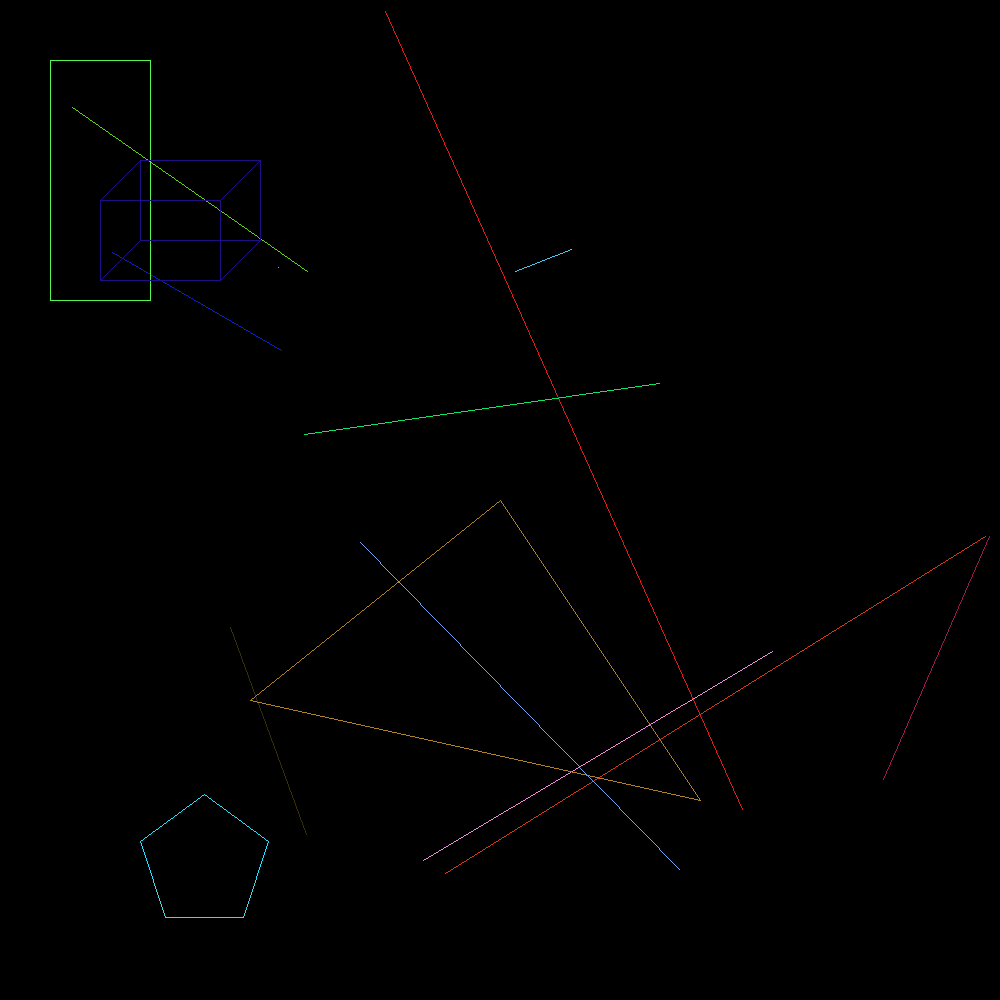
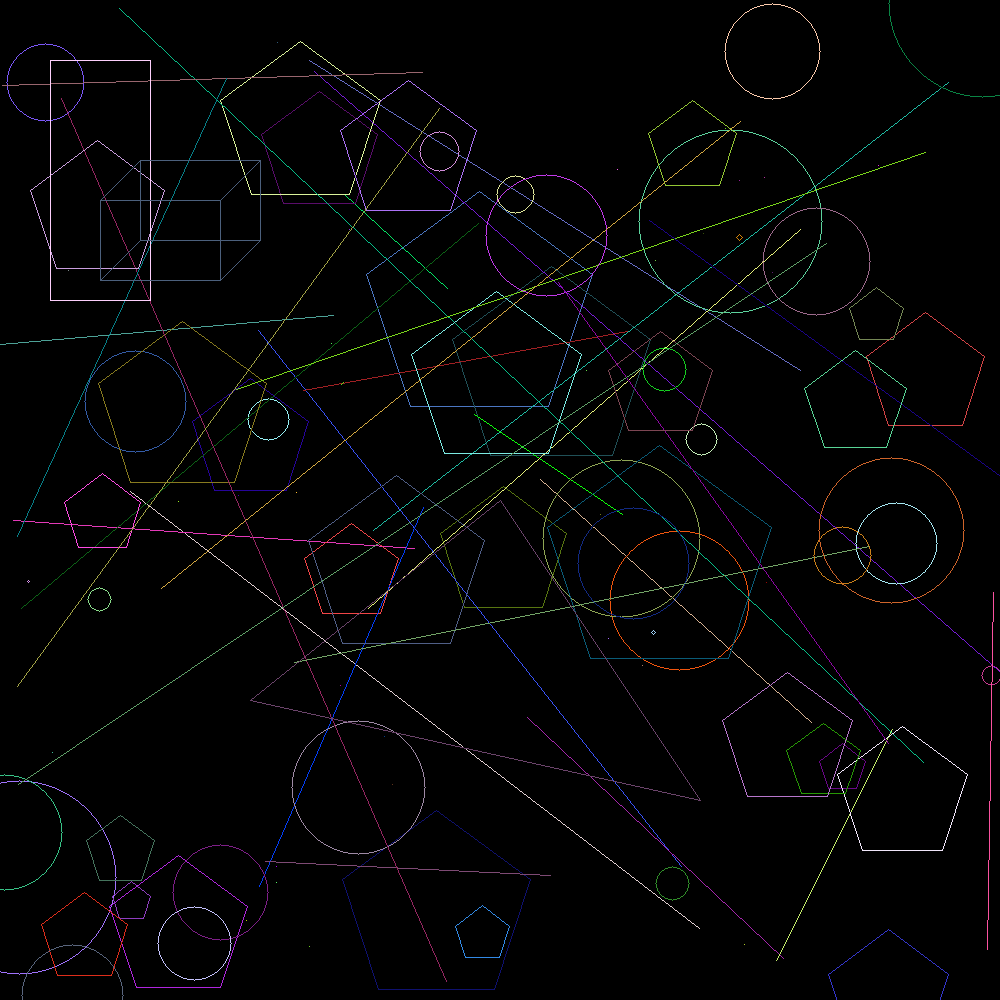
saving: before adding new to Pentagon

diff --git a/drawing/src/geometrical_shapes.rs b/drawing/src/geometrical_shapes.rs
@@ -1,5 +1,7 @@
 use raster::{Color, Image};
 
+// ==============================================================================
+
 pub trait Drawable {
     fn draw(&self, image: &mut Image);
     fn color(&self) -> Color;
@@ -8,6 +10,8 @@ pub trait Drawable {
 pub trait Displayable {
     fn display(&mut self, x: i32, y: i32, color: Color);
 }
+
+// ==============================================================================
 
 #[derive(Clone, Copy)]
 pub struct Point {
@@ -37,6 +41,7 @@ impl Drawable for Point {
         Color::rgb(rand::random(), rand::random(), rand::random())
     }
 }
+// ==============================================================================
 
 pub struct Line {
     pub start: Point,
@@ -115,6 +120,7 @@ impl Drawable for Line {
         Color::rgb(rand::random(), rand::random(), rand::random())
     }
 }
+// ==============================================================================
 
 pub struct Pentagon {
     center: Point,
@@ -122,6 +128,7 @@ pub struct Pentagon {
 }
 
 impl Pentagon {
+    
     pub fn random(width: i32, height: i32) -> Self {
         Pentagon {
             center: Point::random(width, height),
@@ -158,12 +165,11 @@ impl Drawable for Pentagon {
     }
 }
 
-//triangel 
-pub struct  Triangle{
+// ==============================================================================
+pub struct Triangle {
     pnt1: Point,
     pnt2: Point,
     pnt3: Point,
-    
 }
 impl Triangle {
     pub fn new(pnt1: &Point, pnt2: &Point, pnt3: &Point) -> Self {
@@ -173,7 +179,7 @@ impl Triangle {
             pnt3: Point::new(pnt3.x, pnt3.y),
         }
     }
-    
+
     //  pub fn random(width: i32, height: i32) -> Self {
     //     Triangle {
     //         pnt1: Point::random(width, height),
@@ -186,9 +192,21 @@ impl Triangle {
 impl Drawable for Triangle {
     fn draw(&self, image: &mut Image) {
         let g = self.color();
-        Line { start: self.pnt1.clone(), end: self.pnt2.clone() }.draw_with_color(image,g.clone());
-        Line { start: self.pnt2.clone(), end: self.pnt3.clone() }.draw_with_color(  image,g.clone());
-        Line { start: self.pnt3.clone(), end: self.pnt1.clone() }.draw_with_color(  image,g.clone());
+        Line {
+            start: self.pnt1.clone(),
+            end: self.pnt2.clone(),
+        }
+        .draw_with_color(image, g.clone());
+        Line {
+            start: self.pnt2.clone(),
+            end: self.pnt3.clone(),
+        }
+        .draw_with_color(image, g.clone());
+        Line {
+            start: self.pnt3.clone(),
+            end: self.pnt1.clone(),
+        }
+        .draw_with_color(image, g.clone());
     }
 
     fn color(&self) -> Color {
@@ -200,12 +218,11 @@ impl Drawable for Triangle {
     }
 }
 
+// ==============================================================================
 
-
-pub struct Rectangle{
+pub struct Rectangle {
     pnt1: Point,
     pnt2: Point,
-        
 }
 
 impl Rectangle {
@@ -239,13 +256,14 @@ impl Drawable for Rectangle {
     }
 }
 
+// ==============================================================================
+
 pub struct Cube {
-    origin: Point,   
+    origin: Point,
     width: i32,
     height: i32,
     depth: i32,
 }
-
 
 impl Cube {
     pub fn new(origin: &Point, width: i32, height: i32, depth: i32) -> Self {
@@ -257,9 +275,6 @@ impl Cube {
         }
     }
 }
-
-
-
 
 impl Drawable for Cube {
     fn draw(&self, image: &mut Image) {
@@ -302,5 +317,157 @@ impl Drawable for Cube {
             rand::random_range(0..=255),
             rand::random_range(0..=255),
         )
+    }
+}
+
+// ==============================================================================
+
+
+pub struct Circle {
+    center: Point,
+    radius: i32,
+}
+
+impl Circle {
+    pub fn new(center: &Point, radius: i32) -> Self {
+        Circle {
+            center: *center,
+            radius,
+        }
+    }
+
+    pub fn random(width: i32, height: i32) -> Self {
+        Circle {
+            center: Point::random(width, height),
+            radius: rand::random::<i32>().abs() % 100,
+        }
+    }
+}
+
+impl Drawable for Circle {
+    fn draw(&self, image: &mut Image) {
+        let color = self.color();
+        let x0 = self.center.x;
+        let y0 = self.center.y;
+        let radius = self.radius;
+
+        let mut x = radius;
+        let mut y = 0;
+        let mut err = 0;
+
+        while x >= y {
+            image.display(x0 + x, y0 + y, color.clone());
+            image.display(x0 + y, y0 + x, color.clone());
+            image.display(x0 - y, y0 + x, color.clone());
+            image.display(x0 - x, y0 + y, color.clone());
+            image.display(x0 - x, y0 - y, color.clone());
+            image.display(x0 - y, y0 - x, color.clone());
+            image.display(x0 + y, y0 - x, color.clone());
+            image.display(x0 + x, y0 - y, color.clone());
+
+            if err <= 0 {
+                y += 1;
+                err += 2 * y + 1;
+            }
+            if err > 0 {
+                x -= 1;
+                err -= 2 * x + 1;
+            }
+        }
+    }
+
+    fn color(&self) -> Color {
+        Color::rgb(rand::random(), rand::random(), rand::random())
+    }
+}
+
+// ==============================================================================
+#[cfg(test)]
+mod tests {
+    use super::*;
+
+    #[test]
+    fn test_point_new() {
+        let p = Point::new(10, 20);
+        assert_eq!(p.x, 10);
+        assert_eq!(p.y, 20);
+    }
+
+    #[test]
+    fn test_line_new() {
+        let p1 = Point::new(10, 20);
+        let p2 = Point::new(30, 40);
+        let l = Line::new(&p1, &p2);
+        assert_eq!(l.start.x, 10);
+        assert_eq!(l.start.y, 20);
+        assert_eq!(l.end.x, 30);
+        assert_eq!(l.end.y, 40);
+    }
+
+    #[test]
+    fn test_triangle_new() {
+        let p1 = Point::new(10, 20);
+        let p2 = Point::new(30, 40);
+        let p3 = Point::new(50, 60);
+        let t = Triangle::new(&p1, &p2, &p3);
+        assert_eq!(t.pnt1, p1);
+        assert_eq!(t.pnt2, p2);
+        assert_eq!(t.pnt3, p3);
+    }
+
+    #[test]
+    fn test_rectangle_new() {
+        let p1 = Point::new(10, 20);
+        let p2 = Point::new(30, 40);
+        let r = Rectangle::new(&p1, &p2);
+        assert_eq!(r.pnt1, p1);
+        assert_eq!(r.pnt2, p2);
+    }
+
+    #[test]
+    fn test_cube_new() {
+        let p = Point::new(10, 20);
+        let c = Cube::new(&p, 100, 200, 50);
+        assert_eq!(c.origin, p);
+        assert_eq!(c.width, 100);
+        assert_eq!(c.height, 200);
+        assert_eq!(c.depth, 50);
+    }
+
+    #[test]
+    fn test_circle_new() {
+        let p = Point::new(10, 20);
+        let c = Circle::new(&p, 100);
+        assert_eq!(c.center, p);
+        assert_eq!(c.radius, 100);
+    }
+
+    #[test]
+    fn test_pentagon_points() {
+        let p = Point::new(100, 100);
+        let pentagon = Pentagon::new(p, 50);
+        let points = pentagon.points();
+        assert_eq!(points.len(), 5);
+
+        let expected_points = [
+            Point::new(100, 50),
+            Point::new(147, 84),
+            Point::new(129, 140),
+            Point::new(70, 140),
+            Point::new(52, 84),
+        ];
+
+        for i in 0..5 {
+            assert!(
+                (points[i].x - expected_points[i].x).abs() <= 1,
+                "x diff for point {}",
+                i
+            );
+            assert!(
+                (points[i].y - expected_points[i].y).abs() <= 1,
+                "y diff for point {}",
+                i
+            );
+        }
     }
 }

diff --git a/drawing/src/main.rs b/drawing/src/main.rs
@@ -7,34 +7,42 @@ use raster::{Color, Image};
 fn main() {
     let mut image = Image::blank(1000, 1000);
 
-    for _ in 0..10 {
+    for _ in 0..30 {
         gs::Line::random(image.width, image.height).draw(&mut image);
+        gs::Pentagon::random(image.width, image.height).draw(&mut image);
+        gs::Point::random(image.width, image.height).draw(&mut image);
+        gs::Circle::random(image.width, image.height).draw(&mut image);
     }
+    // ==============================================================================
 
-    gs::Point::random(image.width, image.height).draw(&mut image);
-
-    let rectangle = gs::Rectangle::new(&gs::Point::new(150, 300), &gs::Point::new(50, 60));
+    let rectangle = gs::Rectangle::new(
+        &gs::Point::new(150, 300), 
+        &gs::Point::new(50, 60)
+    );
     rectangle.draw(&mut image);
+
+    // ==============================================================================
 
     let triangle = gs::Triangle::new(
         &gs::Point::new(500, 500),
         &gs::Point::new(250, 700),
-        &gs::Point::new(700, 800),
+        &gs::Point::new(700, 800)
     );
     triangle.draw(&mut image);
-     let cube = gs::Cube::new(&gs::Point::new(100, 200), 120, 80, 40);
-cube.draw(&mut image);
 
+    // ==============================================================================
 
-    // for _ in 1..50 {
-    //     gs::Circle::random(image.width, image.height).draw(&mut image);
-    // }
+    let cube = gs::Cube::new(
+        &gs::Point::new(100, 200), 
+        120, 
+        80, 
+        40
+    );
+    cube.draw(&mut image);
 
-    gs::Pentagon::random(image.width, image.height).draw(&mut image);
-
+    // ==============================================================================
+    
     raster::save(&image, "image.png").unwrap();
-   
-
 }
 
 impl Displayable for Image {
